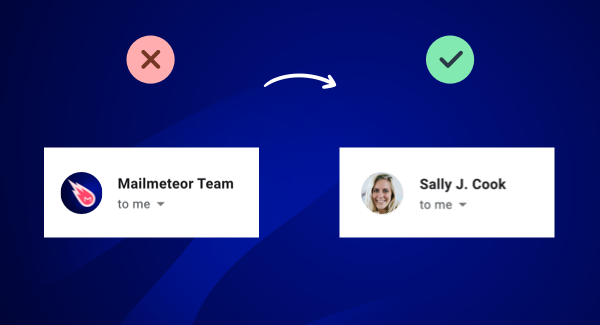
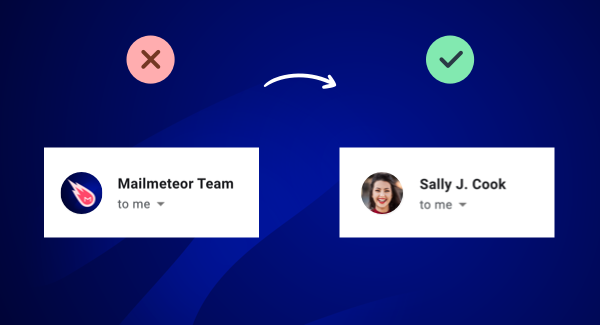
fix: review first sentence and modify profile picture asset

Changed region(s): [[0.6, 0.5231, 0.69, 0.6769]]

diff --git a/gmail-deliverability.md b/gmail-deliverability.md
@@ -18,7 +18,7 @@ meta_date_lastupdated: "March 15, 2021"
 published: true
 ---
 
-When sending emails with Gmail, there are few things more important to the success of a campaign than achieving solid email deliverability with each email. 
+When sending emails with Gmail, there are few things really important to make sure your campaign is a success. Here's a step-by-step guide to ensure a solid Gmail deliverability. 
 
 Email deliverability is what ensures your target audience reads and engages with your content, it's the first defense against the dreaded spam folder and the all-important factor that decides whether your email gets to where it needs to go or bounces off its destination. With different email services having different approaches for distinguishing between spam and genuine correspondence, tuning up your emails for maximum deliverability is essential.
 
